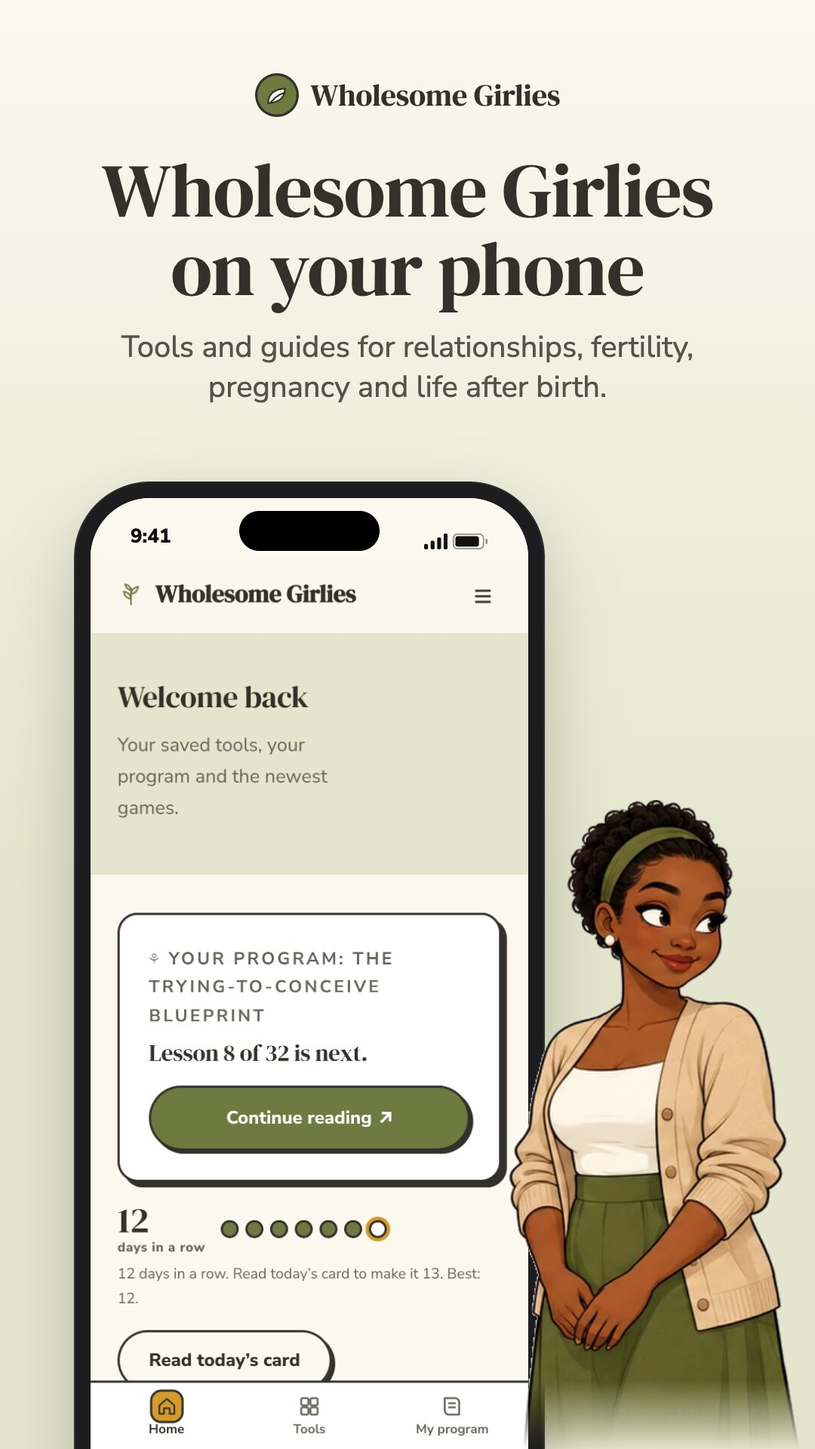
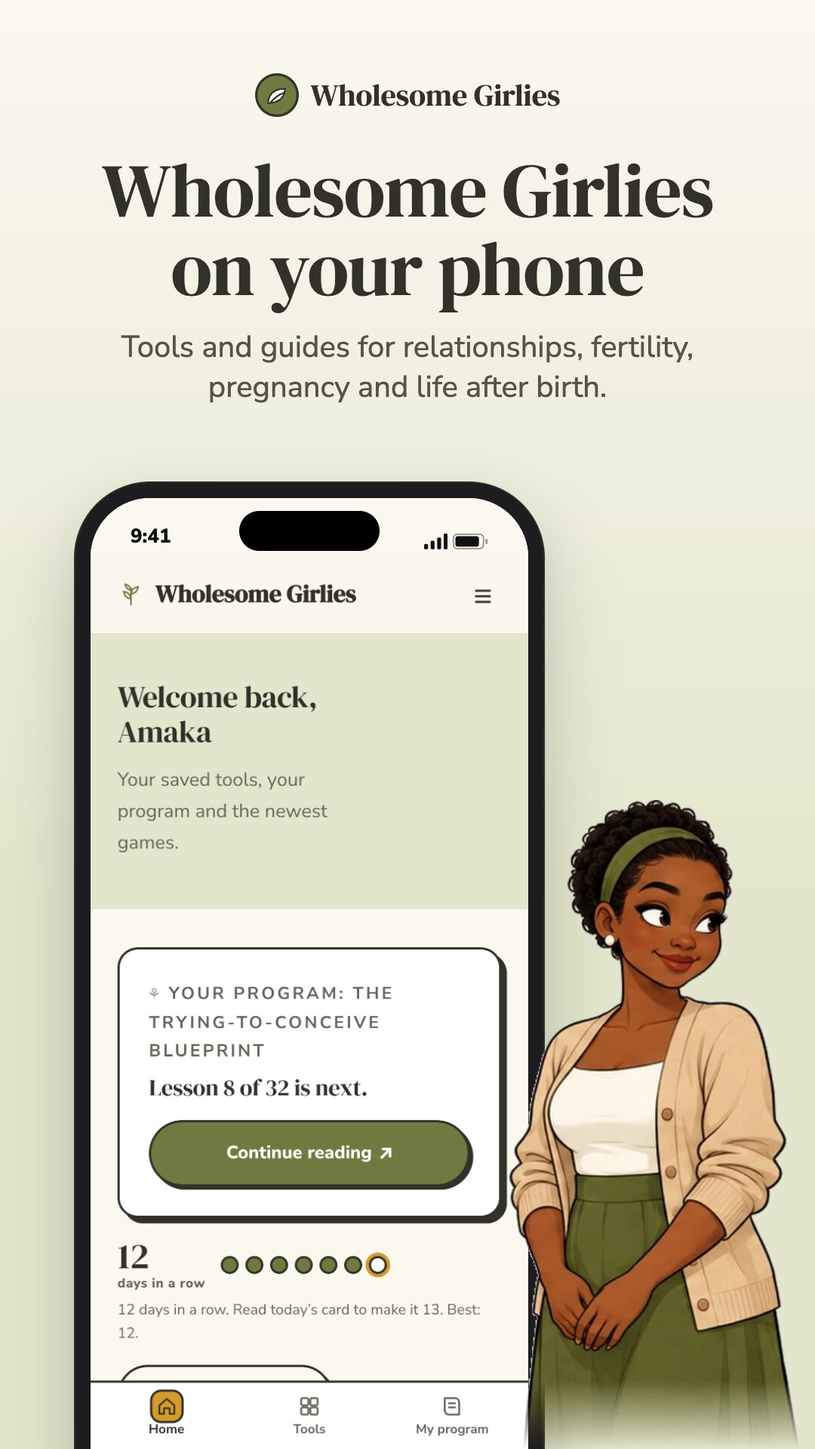
Press page: the app image shows a signed-in Trying-to-Conceive Blueprint buyer; version the image links
BUYER() now signs the sample woman in (account, session and the name Amaka), so the app greets her by name above
her program card. Every press file link carries ?v=2 so browsers fetch the new images instead of cached ones.

Changed region(s): [[0.0917, 0.5, 0.6722, 0.9688]]

diff --git a/press/index.html b/press/index.html
@@ -108,51 +108,51 @@ height="0" width="0" style="display:none;visibility:hidden"></iframe></noscript>
     <div class="pk-tools">
 <div class="pk-tool" id="app">
   <h3>Wholesome Girlies</h3>
-  <p>The app as a woman in our Trying-to-Conceive Blueprint sees it, for a story or list entry about Wholesome Girlies as a whole. <a href="/app/">Open it</a></p>
-  <div class="pk-figs"><figure class="pk-fig tall"><img loading="lazy" src="/assets/img/press/thumb/app-tall.webp" width="360" height="640" alt="Wholesome Girlies: phone screen with a headline, tall image"><figcaption><b>Tall, 1080×1920</b>Beside an app's entry in a list, where other apps show an app store screenshot.</figcaption><div class="cta-wrap"><a class="btn btn-ghost" href="/assets/img/press/app-tall.jpg" download>Download</a></div></figure><figure class="pk-fig wide"><img loading="lazy" src="/assets/img/press/thumb/app-wide.webp" width="640" height="360" alt="Wholesome Girlies: phone screen with a headline, wide image"><figcaption><b>Wide, 1600×900</b>As the main image of an article or a news story.</figcaption><div class="cta-wrap"><a class="btn btn-ghost" href="/assets/img/press/app-wide.jpg" download>Download</a></div></figure><figure class="pk-fig square"><img loading="lazy" src="/assets/img/press/thumb/app-square.webp" width="360" height="360" alt="Wholesome Girlies: phone screen with a headline, square image"><figcaption><b>Square, 1080×1080</b>As a thumbnail in a round-up, an event page or a social post.</figcaption><div class="cta-wrap"><a class="btn btn-ghost" href="/assets/img/press/app-square.jpg" download>Download</a></div></figure></div>
-  <div class="cta-row pk-a-only"><a class="btn btn-ghost" href="/assets/img/press/app-tall.jpg" download>Tall</a><a class="btn btn-ghost" href="/assets/img/press/app-wide.jpg" download>Wide</a><a class="btn btn-ghost" href="/assets/img/press/app-square.jpg" download>Square</a></div>
+  <p>What a woman signed in to our Trying-to-Conceive Blueprint sees in the app on her phone. Use it for a story or list entry about Wholesome Girlies as a whole.</p>
+  <div class="pk-figs"><figure class="pk-fig tall"><img loading="lazy" src="/assets/img/press/thumb/app-tall.webp?v=2" width="360" height="640" alt="Wholesome Girlies: phone screen with a headline, tall image"><figcaption><b>Tall, 1080×1920</b>Beside an app's entry in a list, where other apps show an app store screenshot.</figcaption><div class="cta-wrap"><a class="btn btn-ghost" href="/assets/img/press/app-tall.jpg?v=2" download>Download</a></div></figure><figure class="pk-fig wide"><img loading="lazy" src="/assets/img/press/thumb/app-wide.webp?v=2" width="640" height="360" alt="Wholesome Girlies: phone screen with a headline, wide image"><figcaption><b>Wide, 1600×900</b>As the main image of an article or a news story.</figcaption><div class="cta-wrap"><a class="btn btn-ghost" href="/assets/img/press/app-wide.jpg?v=2" download>Download</a></div></figure><figure class="pk-fig square"><img loading="lazy" src="/assets/img/press/thumb/app-square.webp?v=2" width="360" height="360" alt="Wholesome Girlies: phone screen with a headline, square image"><figcaption><b>Square, 1080×1080</b>As a thumbnail in a round-up, an event page or a social post.</figcaption><div class="cta-wrap"><a class="btn btn-ghost" href="/assets/img/press/app-square.jpg?v=2" download>Download</a></div></figure></div>
+  <div class="cta-row pk-a-only"><a class="btn btn-ghost" href="/assets/img/press/app-tall.jpg?v=2" download>Tall</a><a class="btn btn-ghost" href="/assets/img/press/app-wide.jpg?v=2" download>Wide</a><a class="btn btn-ghost" href="/assets/img/press/app-square.jpg?v=2" download>Square</a></div>
 </div>
 <div class="pk-tool" id="period-tracker">
   <h3>Period Tracker</h3>
   <p>Works out her next three periods and fertile days from the first day of her last period. <a href="/fertility/tools/period-tracker">Open it</a></p>
-  <div class="pk-figs"><figure class="pk-fig tall"><img loading="lazy" src="/assets/img/press/thumb/period-tracker-tall.webp" width="360" height="640" alt="Period Tracker: phone screen with a headline, tall image"><figcaption><b>Tall, 1080×1920</b>Beside an app's entry in a list, where other apps show an app store screenshot.</figcaption><div class="cta-wrap"><a class="btn btn-ghost" href="/assets/img/press/period-tracker-tall.jpg" download>Download</a></div></figure><figure class="pk-fig wide"><img loading="lazy" src="/assets/img/press/thumb/period-tracker-wide.webp" width="640" height="360" alt="Period Tracker: phone screen with a headline, wide image"><figcaption><b>Wide, 1600×900</b>As the main image of an article or a news story.</figcaption><div class="cta-wrap"><a class="btn btn-ghost" href="/assets/img/press/period-tracker-wide.jpg" download>Download</a></div></figure><figure class="pk-fig square"><img loading="lazy" src="/assets/img/press/thumb/period-tracker-square.webp" width="360" height="360" alt="Period Tracker: phone screen with a headline, square image"><figcaption><b>Square, 1080×1080</b>As a thumbnail in a round-up, an event page or a social post.</figcaption><div class="cta-wrap"><a class="btn btn-ghost" href="/assets/img/press/period-tracker-square.jpg" download>Download</a></div></figure></div>
-  <div class="cta-row pk-a-only"><a class="btn btn-ghost" href="/assets/img/press/period-tracker-tall.jpg" download>Tall</a><a class="btn btn-ghost" href="/assets/img/press/period-tracker-wide.jpg" download>Wide</a><a class="btn btn-ghost" href="/assets/img/press/period-tracker-square.jpg" download>Square</a></div>
+  <div class="pk-figs"><figure class="pk-fig tall"><img loading="lazy" src="/assets/img/press/thumb/period-tracker-tall.webp?v=2" width="360" height="640" alt="Period Tracker: phone screen with a headline, tall image"><figcaption><b>Tall, 1080×1920</b>Beside an app's entry in a list, where other apps show an app store screenshot.</figcaption><div class="cta-wrap"><a class="btn btn-ghost" href="/assets/img/press/period-tracker-tall.jpg?v=2" download>Download</a></div></figure><figure class="pk-fig wide"><img loading="lazy" src="/assets/img/press/thumb/period-tracker-wide.webp?v=2" width="640" height="360" alt="Period Tracker: phone screen with a headline, wide image"><figcaption><b>Wide, 1600×900</b>As the main image of an article or a news story.</figcaption><div class="cta-wrap"><a class="btn btn-ghost" href="/assets/img/press/period-tracker-wide.jpg?v=2" download>Download</a></div></figure><figure class="pk-fig square"><img loading="lazy" src="/assets/img/press/thumb/period-tracker-square.webp?v=2" width="360" height="360" alt="Period Tracker: phone screen with a headline, square image"><figcaption><b>Square, 1080×1080</b>As a thumbnail in a round-up, an event page or a social post.</figcaption><div class="cta-wrap"><a class="btn btn-ghost" href="/assets/img/press/period-tracker-square.jpg?v=2" download>Download</a></div></figure></div>
+  <div class="cta-row pk-a-only"><a class="btn btn-ghost" href="/assets/img/press/period-tracker-tall.jpg?v=2" download>Tall</a><a class="btn btn-ghost" href="/assets/img/press/period-tracker-wide.jpg?v=2" download>Wide</a><a class="btn btn-ghost" href="/assets/img/press/period-tracker-square.jpg?v=2" download>Square</a></div>
 </div>
 <div class="pk-tool" id="ovulation-calculator">
   <h3>Ovulation and Fertile Window Calculator</h3>
   <p>Shows her fertile window and likely ovulation day. <a href="/fertility/tools/ovulation-calculator">Open it</a></p>
-  <div class="pk-figs"><figure class="pk-fig tall"><img loading="lazy" src="/assets/img/press/thumb/ovulation-calculator-tall.webp" width="360" height="640" alt="Ovulation and Fertile Window Calculator: phone screen with a headline, tall image"><figcaption><b>Tall, 1080×1920</b>Beside an app's entry in a list, where other apps show an app store screenshot.</figcaption><div class="cta-wrap"><a class="btn btn-ghost" href="/assets/img/press/ovulation-calculator-tall.jpg" download>Download</a></div></figure><figure class="pk-fig wide"><img loading="lazy" src="/assets/img/press/thumb/ovulation-calculator-wide.webp" width="640" height="360" alt="Ovulation and Fertile Window Calculator: phone screen with a headline, wide image"><figcaption><b>Wide, 1600×900</b>As the main image of an article or a news story.</figcaption><div class="cta-wrap"><a class="btn btn-ghost" href="/assets/img/press/ovulation-calculator-wide.jpg" download>Download</a></div></figure><figure class="pk-fig square"><img loading="lazy" src="/assets/img/press/thumb/ovulation-calculator-square.webp" width="360" height="360" alt="Ovulation and Fertile Window Calculator: phone screen with a headline, square image"><figcaption><b>Square, 1080×1080</b>As a thumbnail in a round-up, an event page or a social post.</figcaption><div class="cta-wrap"><a class="btn btn-ghost" href="/assets/img/press/ovulation-calculator-square.jpg" download>Download</a></div></figure></div>
-  <div class="cta-row pk-a-only"><a class="btn btn-ghost" href="/assets/img/press/ovulation-calculator-tall.jpg" download>Tall</a><a class="btn btn-ghost" href="/assets/img/press/ovulation-calculator-wide.jpg" download>Wide</a><a class="btn btn-ghost" href="/assets/img/press/ovulation-calculator-square.jpg" download>Square</a></div>
+  <div class="pk-figs"><figure class="pk-fig tall"><img loading="lazy" src="/assets/img/press/thumb/ovulation-calculator-tall.webp?v=2" width="360" height="640" alt="Ovulation and Fertile Window Calculator: phone screen with a headline, tall image"><figcaption><b>Tall, 1080×1920</b>Beside an app's entry in a list, where other apps show an app store screenshot.</figcaption><div class="cta-wrap"><a class="btn btn-ghost" href="/assets/img/press/ovulation-calculator-tall.jpg?v=2" download>Download</a></div></figure><figure class="pk-fig wide"><img loading="lazy" src="/assets/img/press/thumb/ovulation-calculator-wide.webp?v=2" width="640" height="360" alt="Ovulation and Fertile Window Calculator: phone screen with a headline, wide image"><figcaption><b>Wide, 1600×900</b>As the main image of an article or a news story.</figcaption><div class="cta-wrap"><a class="btn btn-ghost" href="/assets/img/press/ovulation-calculator-wide.jpg?v=2" download>Download</a></div></figure><figure class="pk-fig square"><img loading="lazy" src="/assets/img/press/thumb/ovulation-calculator-square.webp?v=2" width="360" height="360" alt="Ovulation and Fertile Window Calculator: phone screen with a headline, square image"><figcaption><b>Square, 1080×1080</b>As a thumbnail in a round-up, an event page or a social post.</figcaption><div class="cta-wrap"><a class="btn btn-ghost" href="/assets/img/press/ovulation-calculator-square.jpg?v=2" download>Download</a></div></figure></div>
+  <div class="cta-row pk-a-only"><a class="btn btn-ghost" href="/assets/img/press/ovulation-calculator-tall.jpg?v=2" download>Tall</a><a class="btn btn-ghost" href="/assets/img/press/ovulation-calculator-wide.jpg?v=2" download>Wide</a><a class="btn btn-ghost" href="/assets/img/press/ovulation-calculator-square.jpg?v=2" download>Square</a></div>
 </div>
 <div class="pk-tool" id="due-date-calculator">
   <h3>Due Date Calculator</h3>
   <p>Gives her due date and how many weeks along she is. <a href="/pregnancy/tools/due-date-calculator">Open it</a></p>
-  <div class="pk-figs"><figure class="pk-fig tall"><img loading="lazy" src="/assets/img/press/thumb/due-date-calculator-tall.webp" width="360" height="640" alt="Due Date Calculator: phone screen with a headline, tall image"><figcaption><b>Tall, 1080×1920</b>Beside an app's entry in a list, where other apps show an app store screenshot.</figcaption><div class="cta-wrap"><a class="btn btn-ghost" href="/assets/img/press/due-date-calculator-tall.jpg" download>Download</a></div></figure><figure class="pk-fig wide"><img loading="lazy" src="/assets/img/press/thumb/due-date-calculator-wide.webp" width="640" height="360" alt="Due Date Calculator: phone screen with a headline, wide image"><figcaption><b>Wide, 1600×900</b>As the main image of an article or a news story.</figcaption><div class="cta-wrap"><a class="btn btn-ghost" href="/assets/img/press/due-date-calculator-wide.jpg" download>Download</a></div></figure><figure class="pk-fig square"><img loading="lazy" src="/assets/img/press/thumb/due-date-calculator-square.webp" width="360" height="360" alt="Due Date Calculator: phone screen with a headline, square image"><figcaption><b>Square, 1080×1080</b>As a thumbnail in a round-up, an event page or a social post.</figcaption><div class="cta-wrap"><a class="btn btn-ghost" href="/assets/img/press/due-date-calculator-square.jpg" download>Download</a></div></figure></div>
-  <div class="cta-row pk-a-only"><a class="btn btn-ghost" href="/assets/img/press/due-date-calculator-tall.jpg" download>Tall</a><a class="btn btn-ghost" href="/assets/img/press/due-date-calculator-wide.jpg" download>Wide</a><a class="btn btn-ghost" href="/assets/img/press/due-date-calculator-square.jpg" download>Square</a></div>
+  <div class="pk-figs"><figure class="pk-fig tall"><img loading="lazy" src="/assets/img/press/thumb/due-date-calculator-tall.webp?v=2" width="360" height="640" alt="Due Date Calculator: phone screen with a headline, tall image"><figcaption><b>Tall, 1080×1920</b>Beside an app's entry in a list, where other apps show an app store screenshot.</figcaption><div class="cta-wrap"><a class="btn btn-ghost" href="/assets/img/press/due-date-calculator-tall.jpg?v=2" download>Download</a></div></figure><figure class="pk-fig wide"><img loading="lazy" src="/assets/img/press/thumb/due-date-calculator-wide.webp?v=2" width="640" height="360" alt="Due Date Calculator: phone screen with a headline, wide image"><figcaption><b>Wide, 1600×900</b>As the main image of an article or a news story.</figcaption><div class="cta-wrap"><a class="btn btn-ghost" href="/assets/img/press/due-date-calculator-wide.jpg?v=2" download>Download</a></div></figure><figure class="pk-fig square"><img loading="lazy" src="/assets/img/press/thumb/due-date-calculator-square.webp?v=2" width="360" height="360" alt="Due Date Calculator: phone screen with a headline, square image"><figcaption><b>Square, 1080×1080</b>As a thumbnail in a round-up, an event page or a social post.</figcaption><div class="cta-wrap"><a class="btn btn-ghost" href="/assets/img/press/due-date-calculator-square.jpg?v=2" download>Download</a></div></figure></div>
+  <div class="cta-row pk-a-only"><a class="btn btn-ghost" href="/assets/img/press/due-date-calculator-tall.jpg?v=2" download>Tall</a><a class="btn btn-ghost" href="/assets/img/press/due-date-calculator-wide.jpg?v=2" download>Wide</a><a class="btn btn-ghost" href="/assets/img/press/due-date-calculator-square.jpg?v=2" download>Square</a></div>
 </div>
 <div class="pk-tool" id="recovery-timeline-calculator">
   <h3>Recovery Timeline Calculator</h3>
   <p>Shows what to expect week by week after birth, from her delivery date. <a href="/postpartum/tools/recovery-timeline-calculator">Open it</a></p>
-  <div class="pk-figs"><figure class="pk-fig tall"><img loading="lazy" src="/assets/img/press/thumb/recovery-timeline-calculator-tall.webp" width="360" height="640" alt="Recovery Timeline Calculator: phone screen with a headline, tall image"><figcaption><b>Tall, 1080×1920</b>Beside an app's entry in a list, where other apps show an app store screenshot.</figcaption><div class="cta-wrap"><a class="btn btn-ghost" href="/assets/img/press/recovery-timeline-calculator-tall.jpg" download>Download</a></div></figure><figure class="pk-fig wide"><img loading="lazy" src="/assets/img/press/thumb/recovery-timeline-calculator-wide.webp" width="640" height="360" alt="Recovery Timeline Calculator: phone screen with a headline, wide image"><figcaption><b>Wide, 1600×900</b>As the main image of an article or a news story.</figcaption><div class="cta-wrap"><a class="btn btn-ghost" href="/assets/img/press/recovery-timeline-calculator-wide.jpg" download>Download</a></div></figure><figure class="pk-fig square"><img loading="lazy" src="/assets/img/press/thumb/recovery-timeline-calculator-square.webp" width="360" height="360" alt="Recovery Timeline Calculator: phone screen with a headline, square image"><figcaption><b>Square, 1080×1080</b>As a thumbnail in a round-up, an event page or a social post.</figcaption><div class="cta-wrap"><a class="btn btn-ghost" href="/assets/img/press/recovery-timeline-calculator-square.jpg" download>Download</a></div></figure></div>
-  <div class="cta-row pk-a-only"><a class="btn btn-ghost" href="/assets/img/press/recovery-timeline-calculator-tall.jpg" download>Tall</a><a class="btn btn-ghost" href="/assets/img/press/recovery-timeline-calculator-wide.jpg" download>Wide</a><a class="btn btn-ghost" href="/assets/img/press/recovery-timeline-calculator-square.jpg" download>Square</a></div>
+  <div class="pk-figs"><figure class="pk-fig tall"><img loading="lazy" src="/assets/img/press/thumb/recovery-timeline-calculator-tall.webp?v=2" width="360" height="640" alt="Recovery Timeline Calculator: phone screen with a headline, tall image"><figcaption><b>Tall, 1080×1920</b>Beside an app's entry in a list, where other apps show an app store screenshot.</figcaption><div class="cta-wrap"><a class="btn btn-ghost" href="/assets/img/press/recovery-timeline-calculator-tall.jpg?v=2" download>Download</a></div></figure><figure class="pk-fig wide"><img loading="lazy" src="/assets/img/press/thumb/recovery-timeline-calculator-wide.webp?v=2" width="640" height="360" alt="Recovery Timeline Calculator: phone screen with a headline, wide image"><figcaption><b>Wide, 1600×900</b>As the main image of an article or a news story.</figcaption><div class="cta-wrap"><a class="btn btn-ghost" href="/assets/img/press/recovery-timeline-calculator-wide.jpg?v=2" download>Download</a></div></figure><figure class="pk-fig square"><img loading="lazy" src="/assets/img/press/thumb/recovery-timeline-calculator-square.webp?v=2" width="360" height="360" alt="Recovery Timeline Calculator: phone screen with a headline, square image"><figcaption><b>Square, 1080×1080</b>As a thumbnail in a round-up, an event page or a social post.</figcaption><div class="cta-wrap"><a class="btn btn-ghost" href="/assets/img/press/recovery-timeline-calculator-square.jpg?v=2" download>Download</a></div></figure></div>
+  <div class="cta-row pk-a-only"><a class="btn btn-ghost" href="/assets/img/press/recovery-timeline-calculator-tall.jpg?v=2" download>Tall</a><a class="btn btn-ghost" href="/assets/img/press/recovery-timeline-calculator-wide.jpg?v=2" download>Wide</a><a class="btn btn-ghost" href="/assets/img/press/recovery-timeline-calculator-square.jpg?v=2" download>Square</a></div>
 </div>
 <div class="pk-tool" id="mind-check-in">
   <h3>Postpartum Mind Check-in</h3>
   <p>Five questions to reflect on each week after birth, with where to find help. <a href="/postpartum/tools/mind-check-in">Open it</a></p>
-  <div class="pk-figs"><figure class="pk-fig tall"><img loading="lazy" src="/assets/img/press/thumb/mind-check-in-tall.webp" width="360" height="640" alt="Postpartum Mind Check-in: phone screen with a headline, tall image"><figcaption><b>Tall, 1080×1920</b>Beside an app's entry in a list, where other apps show an app store screenshot.</figcaption><div class="cta-wrap"><a class="btn btn-ghost" href="/assets/img/press/mind-check-in-tall.jpg" download>Download</a></div></figure><figure class="pk-fig wide"><img loading="lazy" src="/assets/img/press/thumb/mind-check-in-wide.webp" width="640" height="360" alt="Postpartum Mind Check-in: phone screen with a headline, wide image"><figcaption><b>Wide, 1600×900</b>As the main image of an article or a news story.</figcaption><div class="cta-wrap"><a class="btn btn-ghost" href="/assets/img/press/mind-check-in-wide.jpg" download>Download</a></div></figure><figure class="pk-fig square"><img loading="lazy" src="/assets/img/press/thumb/mind-check-in-square.webp" width="360" height="360" alt="Postpartum Mind Check-in: phone screen with a headline, square image"><figcaption><b>Square, 1080×1080</b>As a thumbnail in a round-up, an event page or a social post.</figcaption><div class="cta-wrap"><a class="btn btn-ghost" href="/assets/img/press/mind-check-in-square.jpg" download>Download</a></div></figure></div>
-  <div class="cta-row pk-a-only"><a class="btn btn-ghost" href="/assets/img/press/mind-check-in-tall.jpg" download>Tall</a><a class="btn btn-ghost" href="/assets/img/press/mind-check-in-wide.jpg" download>Wide</a><a class="btn btn-ghost" href="/assets/img/press/mind-check-in-square.jpg" download>Square</a></div>
+  <div class="pk-figs"><figure class="pk-fig tall"><img loading="lazy" src="/assets/img/press/thumb/mind-check-in-tall.webp?v=2" width="360" height="640" alt="Postpartum Mind Check-in: phone screen with a headline, tall image"><figcaption><b>Tall, 1080×1920</b>Beside an app's entry in a list, where other apps show an app store screenshot.</figcaption><div class="cta-wrap"><a class="btn btn-ghost" href="/assets/img/press/mind-check-in-tall.jpg?v=2" download>Download</a></div></figure><figure class="pk-fig wide"><img loading="lazy" src="/assets/img/press/thumb/mind-check-in-wide.webp?v=2" width="640" height="360" alt="Postpartum Mind Check-in: phone screen with a headline, wide image"><figcaption><b>Wide, 1600×900</b>As the main image of an article or a news story.</figcaption><div class="cta-wrap"><a class="btn btn-ghost" href="/assets/img/press/mind-check-in-wide.jpg?v=2" download>Download</a></div></figure><figure class="pk-fig square"><img loading="lazy" src="/assets/img/press/thumb/mind-check-in-square.webp?v=2" width="360" height="360" alt="Postpartum Mind Check-in: phone screen with a headline, square image"><figcaption><b>Square, 1080×1080</b>As a thumbnail in a round-up, an event page or a social post.</figcaption><div class="cta-wrap"><a class="btn btn-ghost" href="/assets/img/press/mind-check-in-square.jpg?v=2" download>Download</a></div></figure></div>
+  <div class="cta-row pk-a-only"><a class="btn btn-ghost" href="/assets/img/press/mind-check-in-tall.jpg?v=2" download>Tall</a><a class="btn btn-ghost" href="/assets/img/press/mind-check-in-wide.jpg?v=2" download>Wide</a><a class="btn btn-ghost" href="/assets/img/press/mind-check-in-square.jpg?v=2" download>Square</a></div>
 </div>
 <div class="pk-tool" id="vaccination-tracker">
   <h3>Vaccination Tracker</h3>
   <p>Lists each of her baby&#x27;s vaccines on Nigeria&#x27;s schedule, with the date each is due. <a href="/parenting/tools/vaccination-tracker">Open it</a></p>
-  <div class="pk-figs"><figure class="pk-fig tall"><img loading="lazy" src="/assets/img/press/thumb/vaccination-tracker-tall.webp" width="360" height="640" alt="Vaccination Tracker: phone screen with a headline, tall image"><figcaption><b>Tall, 1080×1920</b>Beside an app's entry in a list, where other apps show an app store screenshot.</figcaption><div class="cta-wrap"><a class="btn btn-ghost" href="/assets/img/press/vaccination-tracker-tall.jpg" download>Download</a></div></figure><figure class="pk-fig wide"><img loading="lazy" src="/assets/img/press/thumb/vaccination-tracker-wide.webp" width="640" height="360" alt="Vaccination Tracker: phone screen with a headline, wide image"><figcaption><b>Wide, 1600×900</b>As the main image of an article or a news story.</figcaption><div class="cta-wrap"><a class="btn btn-ghost" href="/assets/img/press/vaccination-tracker-wide.jpg" download>Download</a></div></figure><figure class="pk-fig square"><img loading="lazy" src="/assets/img/press/thumb/vaccination-tracker-square.webp" width="360" height="360" alt="Vaccination Tracker: phone screen with a headline, square image"><figcaption><b>Square, 1080×1080</b>As a thumbnail in a round-up, an event page or a social post.</figcaption><div class="cta-wrap"><a class="btn btn-ghost" href="/assets/img/press/vaccination-tracker-square.jpg" download>Download</a></div></figure></div>
-  <div class="cta-row pk-a-only"><a class="btn btn-ghost" href="/assets/img/press/vaccination-tracker-tall.jpg" download>Tall</a><a class="btn btn-ghost" href="/assets/img/press/vaccination-tracker-wide.jpg" download>Wide</a><a class="btn btn-ghost" href="/assets/img/press/vaccination-tracker-square.jpg" download>Square</a></div>
+  <div class="pk-figs"><figure class="pk-fig tall"><img loading="lazy" src="/assets/img/press/thumb/vaccination-tracker-tall.webp?v=2" width="360" height="640" alt="Vaccination Tracker: phone screen with a headline, tall image"><figcaption><b>Tall, 1080×1920</b>Beside an app's entry in a list, where other apps show an app store screenshot.</figcaption><div class="cta-wrap"><a class="btn btn-ghost" href="/assets/img/press/vaccination-tracker-tall.jpg?v=2" download>Download</a></div></figure><figure class="pk-fig wide"><img loading="lazy" src="/assets/img/press/thumb/vaccination-tracker-wide.webp?v=2" width="640" height="360" alt="Vaccination Tracker: phone screen with a headline, wide image"><figcaption><b>Wide, 1600×900</b>As the main image of an article or a news story.</figcaption><div class="cta-wrap"><a class="btn btn-ghost" href="/assets/img/press/vaccination-tracker-wide.jpg?v=2" download>Download</a></div></figure><figure class="pk-fig square"><img loading="lazy" src="/assets/img/press/thumb/vaccination-tracker-square.webp?v=2" width="360" height="360" alt="Vaccination Tracker: phone screen with a headline, square image"><figcaption><b>Square, 1080×1080</b>As a thumbnail in a round-up, an event page or a social post.</figcaption><div class="cta-wrap"><a class="btn btn-ghost" href="/assets/img/press/vaccination-tracker-square.jpg?v=2" download>Download</a></div></figure></div>
+  <div class="cta-row pk-a-only"><a class="btn btn-ghost" href="/assets/img/press/vaccination-tracker-tall.jpg?v=2" download>Tall</a><a class="btn btn-ghost" href="/assets/img/press/vaccination-tracker-wide.jpg?v=2" download>Wide</a><a class="btn btn-ghost" href="/assets/img/press/vaccination-tracker-square.jpg?v=2" download>Square</a></div>
 </div>
 <div class="pk-tool" id="girls-girl-quiz">
   <h3>Are You a Girl&#x27;s Girl?</h3>
   <p>A quiz women play and send to their friends. <a href="/relationships/tools/girls-girl-quiz">Open it</a></p>
-  <div class="pk-figs"><figure class="pk-fig tall"><img loading="lazy" src="/assets/img/press/thumb/girls-girl-quiz-tall.webp" width="360" height="640" alt="Are You a Girl&#x27;s Girl?: phone screen with a headline, tall image"><figcaption><b>Tall, 1080×1920</b>Beside an app's entry in a list, where other apps show an app store screenshot.</figcaption><div class="cta-wrap"><a class="btn btn-ghost" href="/assets/img/press/girls-girl-quiz-tall.jpg" download>Download</a></div></figure><figure class="pk-fig wide"><img loading="lazy" src="/assets/img/press/thumb/girls-girl-quiz-wide.webp" width="640" height="360" alt="Are You a Girl&#x27;s Girl?: phone screen with a headline, wide image"><figcaption><b>Wide, 1600×900</b>As the main image of an article or a news story.</figcaption><div class="cta-wrap"><a class="btn btn-ghost" href="/assets/img/press/girls-girl-quiz-wide.jpg" download>Download</a></div></figure><figure class="pk-fig square"><img loading="lazy" src="/assets/img/press/thumb/girls-girl-quiz-square.webp" width="360" height="360" alt="Are You a Girl&#x27;s Girl?: phone screen with a headline, square image"><figcaption><b>Square, 1080×1080</b>As a thumbnail in a round-up, an event page or a social post.</figcaption><div class="cta-wrap"><a class="btn btn-ghost" href="/assets/img/press/girls-girl-quiz-square.jpg" download>Download</a></div></figure></div>
-  <div class="cta-row pk-a-only"><a class="btn btn-ghost" href="/assets/img/press/girls-girl-quiz-tall.jpg" download>Tall</a><a class="btn btn-ghost" href="/assets/img/press/girls-girl-quiz-wide.jpg" download>Wide</a><a class="btn btn-ghost" href="/assets/img/press/girls-girl-quiz-square.jpg" download>Square</a></div>
+  <div class="pk-figs"><figure class="pk-fig tall"><img loading="lazy" src="/assets/img/press/thumb/girls-girl-quiz-tall.webp?v=2" width="360" height="640" alt="Are You a Girl&#x27;s Girl?: phone screen with a headline, tall image"><figcaption><b>Tall, 1080×1920</b>Beside an app's entry in a list, where other apps show an app store screenshot.</figcaption><div class="cta-wrap"><a class="btn btn-ghost" href="/assets/img/press/girls-girl-quiz-tall.jpg?v=2" download>Download</a></div></figure><figure class="pk-fig wide"><img loading="lazy" src="/assets/img/press/thumb/girls-girl-quiz-wide.webp?v=2" width="640" height="360" alt="Are You a Girl&#x27;s Girl?: phone screen with a headline, wide image"><figcaption><b>Wide, 1600×900</b>As the main image of an article or a news story.</figcaption><div class="cta-wrap"><a class="btn btn-ghost" href="/assets/img/press/girls-girl-quiz-wide.jpg?v=2" download>Download</a></div></figure><figure class="pk-fig square"><img loading="lazy" src="/assets/img/press/thumb/girls-girl-quiz-square.webp?v=2" width="360" height="360" alt="Are You a Girl&#x27;s Girl?: phone screen with a headline, square image"><figcaption><b>Square, 1080×1080</b>As a thumbnail in a round-up, an event page or a social post.</figcaption><div class="cta-wrap"><a class="btn btn-ghost" href="/assets/img/press/girls-girl-quiz-square.jpg?v=2" download>Download</a></div></figure></div>
+  <div class="cta-row pk-a-only"><a class="btn btn-ghost" href="/assets/img/press/girls-girl-quiz-tall.jpg?v=2" download>Tall</a><a class="btn btn-ghost" href="/assets/img/press/girls-girl-quiz-wide.jpg?v=2" download>Wide</a><a class="btn btn-ghost" href="/assets/img/press/girls-girl-quiz-square.jpg?v=2" download>Square</a></div>
 </div>
     </div>
   </div>
@@ -162,9 +162,9 @@ height="0" width="0" style="display:none;visibility:hidden"></iframe></noscript>
   <div class="wrap narrow">
     <h2>Logos</h2>
     <div class="pk-logos">
-      <figure class="pk-fig"><div class="pk-box"><img loading="lazy" src="/assets/img/press/wholesome-girlies-icon.png" width="1024" height="1024" alt="Wholesome Girlies icon, a cream leaf on an olive circle"></div><figcaption><b>Icon, 1024×1024</b>Where other apps show their app icon.</figcaption><div class="cta-wrap"><a class="btn btn-ghost" href="/assets/img/press/wholesome-girlies-icon.png" download>Download</a></div></figure>
-      <figure class="pk-fig"><div class="pk-box"><img loading="lazy" src="/assets/img/press/wholesome-girlies-wordmark-ink.png" width="2472" height="380" alt="Wholesome Girlies logo in dark ink"></div><figcaption><b>Logo for light backgrounds</b>Dark letters, clear background.</figcaption><div class="cta-wrap"><a class="btn btn-ghost" href="/assets/img/press/wholesome-girlies-wordmark-ink.png" download>Download</a></div></figure>
-      <figure class="pk-fig"><div class="pk-box pk-dark"><img loading="lazy" src="/assets/img/press/wholesome-girlies-wordmark-cream.png" width="2472" height="380" alt="Wholesome Girlies logo in cream"></div><figcaption><b>Logo for dark backgrounds</b>Cream letters, clear background.</figcaption><div class="cta-wrap"><a class="btn btn-ghost" href="/assets/img/press/wholesome-girlies-wordmark-cream.png" download>Download</a></div></figure>
+      <figure class="pk-fig"><div class="pk-box"><img loading="lazy" src="/assets/img/press/wholesome-girlies-icon.png?v=2" width="1024" height="1024" alt="Wholesome Girlies icon, a cream leaf on an olive circle"></div><figcaption><b>Icon, 1024×1024</b>Where other apps show their app icon.</figcaption><div class="cta-wrap"><a class="btn btn-ghost" href="/assets/img/press/wholesome-girlies-icon.png?v=2" download>Download</a></div></figure>
+      <figure class="pk-fig"><div class="pk-box"><img loading="lazy" src="/assets/img/press/wholesome-girlies-wordmark-ink.png?v=2" width="2472" height="380" alt="Wholesome Girlies logo in dark ink"></div><figcaption><b>Logo for light backgrounds</b>Dark letters, clear background.</figcaption><div class="cta-wrap"><a class="btn btn-ghost" href="/assets/img/press/wholesome-girlies-wordmark-ink.png?v=2" download>Download</a></div></figure>
+      <figure class="pk-fig"><div class="pk-box pk-dark"><img loading="lazy" src="/assets/img/press/wholesome-girlies-wordmark-cream.png?v=2" width="2472" height="380" alt="Wholesome Girlies logo in cream"></div><figcaption><b>Logo for dark backgrounds</b>Cream letters, clear background.</figcaption><div class="cta-wrap"><a class="btn btn-ghost" href="/assets/img/press/wholesome-girlies-wordmark-cream.png?v=2" download>Download</a></div></figure>
     </div>
   </div>
 </section>
@@ -182,7 +182,7 @@ height="0" width="0" style="display:none;visibility:hidden"></iframe></noscript>
     <h2>About Wholesome Girlies</h2>
     <p>Wholesome Girlies is a health app and community for African women at home and in the diaspora, starting in Nigeria. It gives women the tools, resources and research-backed guidance to close the information gap at each stage, so every woman who uses it learns what to ask, what to watch out for, and when to go to hospital.</p>
     <p>What a woman types into a tool stays on her phone, and we never collect it. An account is optional, and she can ask us to delete it at any time.</p>
-    <div class="cta-wrap"><a class="btn btn-primary" href="/assets/img/press/wholesome-girlies-fact-sheet.pdf" download>Download the fact sheet (PDF)</a></div>
+    <div class="cta-wrap"><a class="btn btn-primary" href="/assets/img/press/wholesome-girlies-fact-sheet.pdf?v=2" download>Download the fact sheet (PDF)</a></div>
     <h2>Contact</h2>
     <p>For an interview, data on what Nigerian women search for, or an image in another size, email James Praise at <a href="mailto:james@wholesomegirlies.xyz">james@wholesomegirlies.xyz</a>.</p>
   </div>

diff --git a/scripts/make-media-kit.js b/scripts/make-media-kit.js
@@ -30,7 +30,8 @@ const GH = { tolu: [392, 620], amaka: [255, 569], zainab: [289, 563], funmi: [29
 
 // Each tool: its page, its stage, the words on the image (what she gets, in plain words) and how to fill it
 // with sample data so the screen shows a real result. Days are counted back from today.
-// A paid fertility buyer's phone: her program flag, 7 of 32 lessons read, a cycle date and a 12 day streak with its days filled in. Dates are set
+// A paid fertility buyer, signed in on her phone: her account and name (Amaka, the fertility guide in the picture), her
+// program flag, 7 of 32 lessons read, a cycle date and a 12 day streak with its days filled in. Dates are set
 // relative to the day of the run, so the app home always reads "Lesson 8 of 32 is next" and "12 days in a row".
 const BUYER = () => {
   const day = (d) => new Date(Date.now() + d * 864e5).toISOString().slice(0, 10);
@@ -38,6 +39,11 @@ const BUYER = () => {
     "your-cycle-in-plain-words", "your-fertile-window", "how-to-tell-you-have-ovulated"];
   return {
     wg_acct_skip_v1: "1",
+    wg_session_v1: "media-kit-sample",
+    wg_account_v1: { v: 1, at: Date.now(), saved: [], account: { email: "amaka@example.com", name: "Amaka",
+      programs: [{ slug: "trying-to-conceive-blueprint", home: "/programs/trying-to-conceive-blueprint/thank-you" }] } },
+    wg_name_v1: { v: 1, name: "Amaka", asked: true },
+    wg_app_welcomed: "1",
     wg_fertility_home: { u: "/programs/trying-to-conceive-blueprint/thank-you", l: "Conception home" },
     "wg_read_trying-to-conceive-blueprint": { done: Object.fromEntries(read.map((i) => [i, 1])), last: read[read.length - 1] },
     wg_stage_fertility_v1: { v: 1, lmp: day(-10), cycle: 28, starts: [day(-38), day(-10)] },
